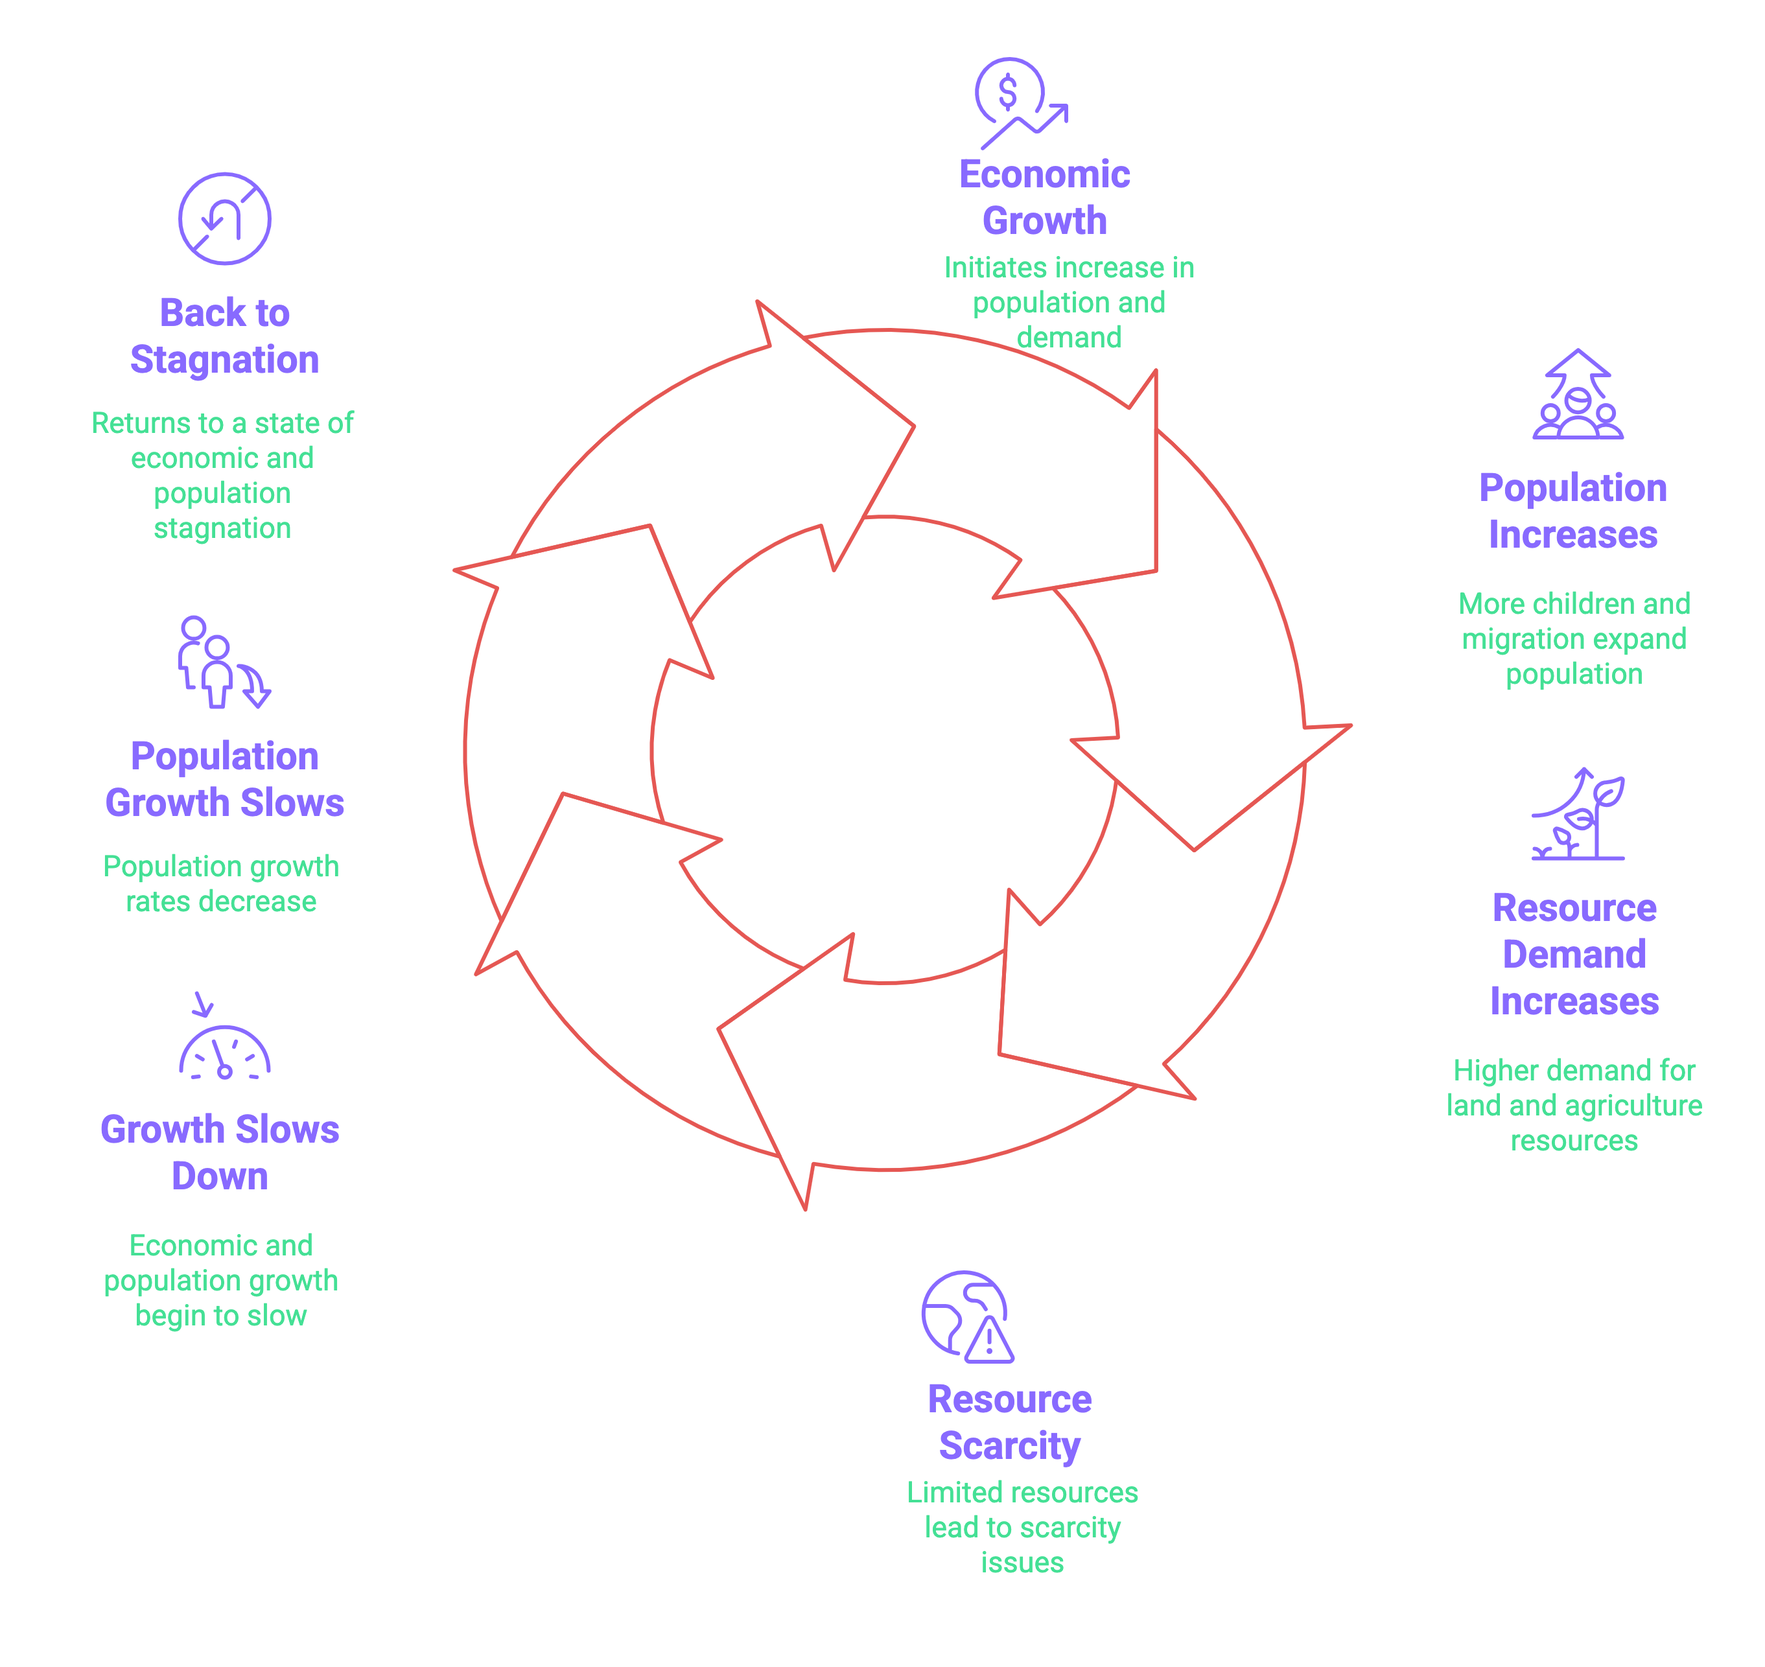
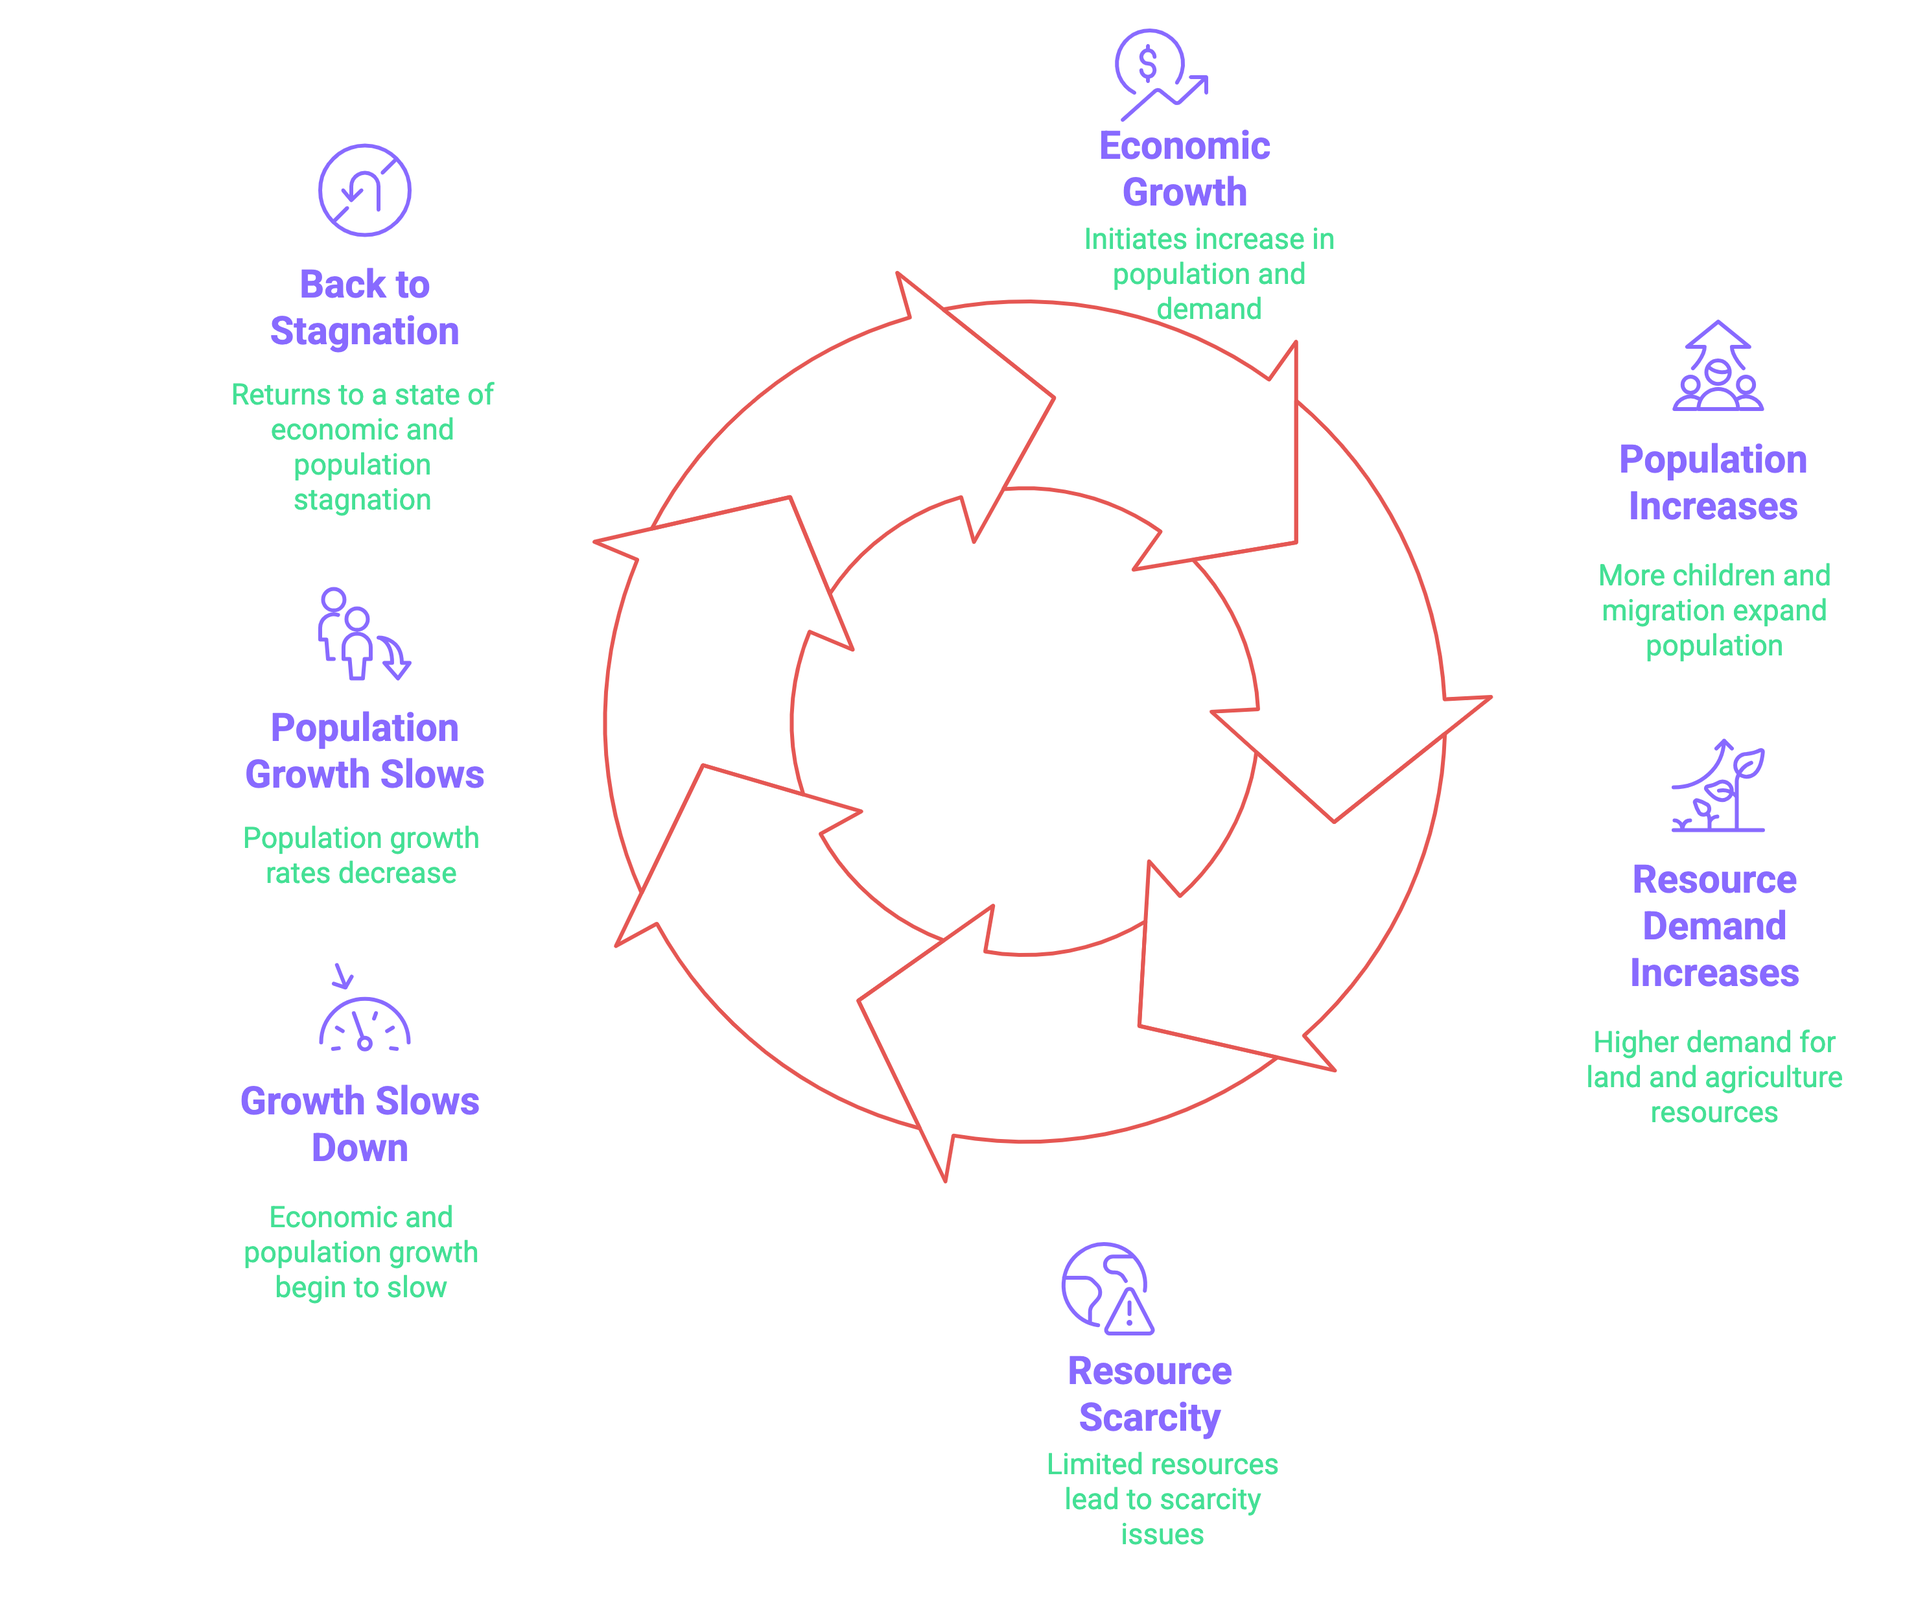
docs(ebm): replace text descriptions with image references in notes.tsx
Update the notes.tsx file to replace textual diagram descriptions with corresponding image references. This change improves readability and ensures consistency with the newly added images in the public/images/EBM directory.

diff --git a/src/data/courses/ebm/notes.tsx b/src/data/courses/ebm/notes.tsx
@@ -12,8 +12,7 @@ export const ebmNotes: { [key: string]: { title: string; content: string } } = {
 *   The invention of money made trade easier and more efficient.
 *   Wherever societies and civilizations exist, business exists too.
 
-**(Diagram Description: A flowchart illustrating the progression of business concepts. Top row shows arrows connecting icons representing: Human Civilization -> Need for Exchange -> Money Invention. Bottom row shows arrows connecting icons representing: Occupational Specialization -> Barter System -> [Implied step with '$' icon] -> [Implied step 'M Bu' - possibly Market/Business])**
-
+![](/images/EBM/Module1/1.png)
 
 # What Are the Ways in Which Business Can Be Conducted?
 
@@ -60,7 +59,7 @@ export const ebmNotes: { [key: string]: { title: string; content: string } } = {
 | Business Example     | Small town shopkeepers    | Traders in historic markets |
 | Long-Term Impact     | Sustains loyal customers  | Ensures honesty in business |
 
-**(Diagram Description: A diagram branching from "Relational Exchange". One branch leads to "Repetition-Based" with icons for "Repeat transactions" and an example "Shopkeeper in town". The other branch leads to "Reputation-Based" with icons for "Social credibility" and an example "Historic traders (Middle East)".)**
+![](/images/EBM/Module1/2.png)
 
 
 # What Are Some Examples of Power Exchange?
@@ -73,7 +72,7 @@ export const ebmNotes: { [key: string]: { title: string; content: string } } = {
     *   **Europe:** Nobility received a share of peasant production in return for providing military service.
 *   **Modern Example:** Employers can fire employees who do not comply with their instructions, demonstrating power-based exchange in corporate settings.
 
-**(Diagram Description: A diagram branching from "Power-Based Exchange". One branch leads to "Historical" with examples like "Landlords", "Colonial exploitation", "State control (China)". The other branch leads to "Modern" with the example "Employer-employee relations".)**
+![](/images/EBM/Module1/3.png)
 
 
 # What Is Contractual Exchange?
@@ -135,7 +134,7 @@ export const ebmNotes: { [key: string]: { title: string; content: string } } = {
     *   Existing business networks, such as **guilds**, may restrict new entrants to **limit competition**.
     *   This makes it hard for outsiders to enter and innovate within such social structures.
 
-**(Diagram Description: "The Dual Nature of Embeddedness". A central point branches upwards and downwards. Upwards (negative aspects): "Barriers to Entry" (Creates challenges for new entrants) and "Limited Opportunities" (Limits growth by restricting market access and innovation) and "Gossip/Manipulation" (Can lead to unethical practices and misinformation). Downwards (positive aspects): "Trust & Reputation" (Trust enhances collaboration and strengthens business relationships) and "Reduces Market Frictions" (Reduces transaction costs, improving market efficiency).)**
+![](/images/EBM/Module1/4.png)
 
 
 # What Are the Instances When Outsiders Find It Difficult to Enter the Socially Embedded Network?
@@ -166,7 +165,7 @@ export const ebmNotes: { [key: string]: { title: string; content: string } } = {
     *   As guilds became more restrictive, they stifled economic growth.
     *   Their decline began in London and Amsterdam (1500s) and spread across Europe by **1800**, replaced by modern firms and corporations.
 
-**(Diagram Description: A comparison diagram labelled "Pros vs Cons". On the "Pros" side, icons represent "Knowledge Sharing" and "Trade Security". On the "Cons" side, icons represent "Entry Barriers" and "Monopoly".)**
+![](/images/EBM/Module1/5.png)
     `
 },
 '2-1':{
@@ -188,7 +187,7 @@ export const ebmNotes: { [key: string]: { title: string; content: string } } = {
 *   **Ride-sharing** - we take cabs with unknown drivers but rely on the system for safety.
 *   **Living in a new city** - strangers at first, but over time, they become part of our social circle.
 
-**(Diagram Description: A circular flow diagram illustrating the benefits of interacting with strangers facilitated by contracts. Stages include: Interact with Strangers (Engaging with new people daily) -> Build Contracts (Establishing mutual agreements) -> Create Opportunities (Opening new possibilities) -> Increase Adaptability (Enhancing flexibility and resilience) -> Boost Efficiency (Improving productivity and effectiveness) -> back to Interact with Strangers.)**
+![](/images/EBM/Module2/1.png)
 
 # If Exchange for Strangers Is So Important Then Why Is It Not Everywhere?
 
@@ -222,7 +221,7 @@ export const ebmNotes: { [key: string]: { title: string; content: string } } = {
 *   A major shift happened in the **16th century in Northwestern Europe (Amsterdam, London)**—new systems and institutions were created to make trading with strangers easier and more reliable.
 *   This marked the beginning of **large-scale impersonal exchange**, which allowed economies to grow beyond local, trust-based ties.
 
-**(Diagram Description: A flowchart illustrating the emergence of impersonal exchange around the 1500s. "1500s Global Exploration" (ship icon) leads to "Atlantic Trade Boom" (graph icon) and "Ports like Amsterdam, London Grow" (port icon). Increased trade leads to "Guilds Decline" (M symbol crossed out). This decline, combined with growing trade, leads to "New Institutions: Contracts, Record-Keeping" (document icon). These factors culminate in "Impersonal Exchange Emerges" (group icon).)**
+![](/images/EBM/Module2/2.png)
 
 
 # What Happened to Northwest Europe Which Led to Emerge Impersonal Exchange?
@@ -337,7 +336,7 @@ export const ebmNotes: { [key: string]: { title: string; content: string } } = {
     *   Easier to track orders, give ratings, and get refunds.
     *   Competition makes businesses more reliable and customer-focused.
 
-**(Diagram Description: A horizontal flowchart titled "Evolution of Business Structures". Stages shown progressing from left to right: Guilds & Partnerships -> Joint Stock Companies (1600s) -> Stock Exchanges -> Modern Public Companies -> Separation Ownership Management.)**
+![](/images/EBM/Module2/3.png)
     `
 },
 '3-1':{
@@ -358,12 +357,12 @@ export const ebmNotes: { [key: string]: { title: string; content: string } } = {
 
 This economic similarity is explained by the **Malthusian Trap**. When economic conditions improved, populations grew due to better living conditions and more children. But this population growth led to pressure on limited resources like land and food, which in turn slowed down economic growth. Eventually, both economic and population growth would slow or stagnate.
 
-**(Diagram Description: A circular diagram titled "Malthusian Trap Cycle". Starts with "Economic Growth" (initiates increase in population and demand), leading to "Population Increases" (more children and migration expand population), then "Resource Demand Increases" (higher demand for land and agriculture resources), then "Resource Scarcity" (limited resources lead to scarcity issues), then "Growth Slows Down" (economic and population growth begin to slow), then "Population Growth Slows" (population growth rates decrease), and finally "Back to Stagnation" (returns to a state of economic and population stagnation), which loops back to Economic Growth if conditions improve.)**
+![](/images/EBM/Module3/1.png)
 
 
 # How Did Economic Growth Start?
 
-**(Diagram Description: A line graph titled "History's hockey stick: Gross domestic product per capita in five countries (1000–2015)". The Y-axis shows GDP per capita, and the X-axis shows the Year from 1000 to 2000. Lines for Britain, Japan, Italy, China, and India show relatively flat GDP per capita until around 1750-1800, after which Britain's line rises sharply, followed later by Italy, Japan, and eventually China and India, forming a "hockey stick" shape.)**
+![](/images/EBM/Module3/2.png)
 
 **Hockey stick growth:** A term used to describe the **sharp upward spike in economic growth**, especially after the **1750s**.
 
@@ -411,7 +410,7 @@ A thought experiment illustrates this:
 | 2. Embedded Learning      | Teachers (e.g., clan elders, guild masters) have better expertise than parents | Lower incentive to teach well compared to parents | Relies on **reputation** and **community ties** to ensure quality               |
 | 3. Market-based Learning  | Access to the **best available experts**, even strangers      | Risk of **opportunism** and **reduced personal attention** | If supported by **trustworthy institutions**, this model drives **maximum innovation and growth** |
 
-**(Diagram Description: A graph titled "Who is your teacher?" plotting Productivity Growth vs Population Growth. It shows curves representing different learning structures: Family member, Clan member, Guild master (monopolizes), Market stranger. Point G (Guild) is shown higher than point C (Clan) if guilds have little market power. A "Malthusian constrain" line limits growth. The market stranger offers the highest potential productivity growth.)**
+![](/images/EBM/Module3/3.png)
 
 As societies shift from **relationship-based** to **market-based** systems—with supportive institutions—the potential for innovation, learning, and economic growth accelerates, contributing to the "hockey stick" pattern in modern economic history.
 
@@ -547,7 +546,7 @@ This is known as the **"Reform and Opening Up"** era.
 *   Transition into the **world's 2nd largest economy**
 *   **Millions lifted out of poverty**
 
-**(Diagram Description: A simplified flowchart showing the transition stages discussed previously: Traditional Economy -> Atlantic Trade & Printing Revolution -> Decline of Elites & Guilds -> Adoption of Formal Business Rules -> Market Based Economy Emerges.)**
+![](/images/EBM/Module3/4.png)
     `
 },
 '4-1':{
@@ -610,7 +609,7 @@ To kickstart market development, we usually need:
 *   Travel bookings (IRL agents - apps)
 *   Shopping (local shopkeepers - e-commerce)
 
-**(Diagram Description: Two intertwined paths labelled "Formalize Businesses" and "Disrupt Elites" lead towards "New Markets Develop")**
+![](/images/EBM/Module4/1.png)
 
 
 ## Why doesn't this happen everywhere?
@@ -685,12 +684,8 @@ To keep markets & cities thriving, we need:
 
 ### Growth Isn't Automatic:
 
-**(Diagram Description: A staircase representing economic development stages)**
-*   **Bottom Step (Blue - Trigger Growth):** Initiate economic expansion through innovative strategies.
-*   **Yellow Step (Short-Term Boom):** Experience a rapid increase in economic activity.
-*   **Orange Step (Need Sustained Effort):** Recognize the necessity of continuous hard work to maintain progress.
-*   **Red Step (Avoid Stagnation):** Implement strategies to prevent economic stagnation.
-*   **Top Step (Green - Long-Term Development):** Achieve sustainable and lasting economic growth.
+![](/images/EBM/Module4/2.png)
+
 
 # What steps can be taken to ensure market development ?
 
@@ -748,11 +743,8 @@ We need:
     → Citizens
 
 
-**(Diagram Description: A circular diagram titled "Sustainable Market Growth" with four interconnected components)**
-*   **Top Left (Green - $$)**: Continued Care & Reform (Ongoing efforts to maintain and improve market systems.)
-*   **Top Right (Yellow - $$)**: Incentives & Formal Rules (Establishing clear guidelines and motivations to encourage participation and fairness.)
-*   **Bottom Right (Orange - Building)**: Disruption of Elites (Challenging entrenched power structures to promote equity and innovation.)
-*   **Bottom Left (Blue - Handshake)**: Open & Fair Transactions (Ensuring transparency and impartiality in market exchanges.)
+![](/images/EBM/Module4/3.png)
+
 
 # Aren't elites always dominating in capitalist market?
 
@@ -853,11 +845,8 @@ While **business development** and **market development** might seem similar, th
 
 ## Media's Role in Business and Society
 
-**(Diagram Description: Four classical pillars representing media roles)**
-*   **Pillar 1:** Informing the Public (Disseminating news and information to keep citizens informed.)
-*   **Pillar 2:** Exposing Malpractices (Uncovering and reporting on unethical or illegal activities.)
-*   **Pillar 3:** Holding Accountable (Ensuring businesses and politicians are responsible for their actions.)
-*   **Pillar 4:** Creating Competition (Fostering a competitive market environment and consumer awareness.)
+![](/images/EBM/Module4/4.png)
+
 
 # Introduction to Institutions, Culture and Technology
 
@@ -873,13 +862,8 @@ While **business development** and **market development** might seem similar, th
     *   Integrate and organize the **fragmented discussions** from previous weeks.
     *   Understand these factors to apply them in **developing economies like India**.
 
-**(Diagram Description: Steps leading upwards towards applying learnings)**
-*   **Bottom (Red): Traditional Structure** (A business environment rooted in social ties and power dynamics.)
-*   **Orange: Formal Contracts** (The introduction of formal agreements and market mechanisms.)
-*   **Yellow: Market Nurturing** (Efforts to support and develop market infrastructure.)
-*   **Green: Overcoming Cronyism** (Addressing issues of crony capitalism and incumbent dominance.)
-*   **Blue: Systematic Development** (Implementing a structured approach to economic growth.)
-*   **Top (Purple): Applying Learnings** (Adapting successful strategies to emerging economies.)
+![](/images/EBM/Module4/5.png)
+
 
 # What kind of institutions regulate the functioning of business ?
 
@@ -1042,10 +1026,8 @@ Beyond Formal Institutions (like courts/governments), the **legal system** itsel
 
 # How did technology help in evolving business ?
 
-**(Diagram Fragment: Shows axes for "Complexity of product descr" (Low/High) and "Asset specificity" (Low/High). A dividing line suggests "Market" dominates Low/Low and "Hierarchy" dominates High/High.)**
+![](/images/EBM/Module4/6.png)
 
-*   **(Example of) hierarchies** in meatpacking industry
-*   **(Example of) markets** in stocks and commodities futures
 
 ## Positive Impacts of ICT (Information and Communication Technology) on Markets
 ICT helps **reduce search costs**, allowing buyers and sellers to **find each other easily**, especially in areas where people could not previously interact freely.
@@ -1071,7 +1053,7 @@ However, ICT can also **centralize control** instead of decentralizing it. For i
 
 # Do transport advancement lead to market integration?
 
-**(Diagram Description: Maps of India from 1860 to 1930 showing increasing railroad density.)**
+![](/images/EBM/Module4/7.png)
 
 ##Railroads
 1)  decreased trade costs and interregional price gaps;
@@ -1153,8 +1135,8 @@ The idea of **nationhood** as we understand it today is deeply rooted in the con
     *   **Karnataka & Kerala** = more prosperous, faster growth
 *   Emerging **regional imbalance** in development and opportunity.
 
-**(Diagram Description: Flowchart "Regional Economic Shifts in India")**
-Economic Growth (Post-1991) → Rise of Southern & Western Cities → Neglect of Northern & Eastern Cities → Metropolis Vacuum in Gangetic Plain → Higher Poverty & Lower Urbanization → Regional Economic Inequality
+![](/images/EBM/Module4/8.png)
+
 
 # Metropolis Vacuum
 
@@ -1200,10 +1182,8 @@ Economic Growth (Post-1991) → Rise of Southern & Western Cities → Neglect of
     *   **Migration patterns**
     *   **Social indicators** like female literacy and dropout rates
 
-**(Diagram Description: "Impact of Liberalization on Regional Development")**
-Liberalization (1991) → Uneven Opportunity Access
-*   → South/West → Virtuous Cycle → High Development → High Education Levels
-*   → Hindi Heartland → Vicious Cycle → Low Development → High Dropouts
+![](/images/EBM/Module4/9.png)
+
 
 # Addressing issues of Hindi heartland
 
